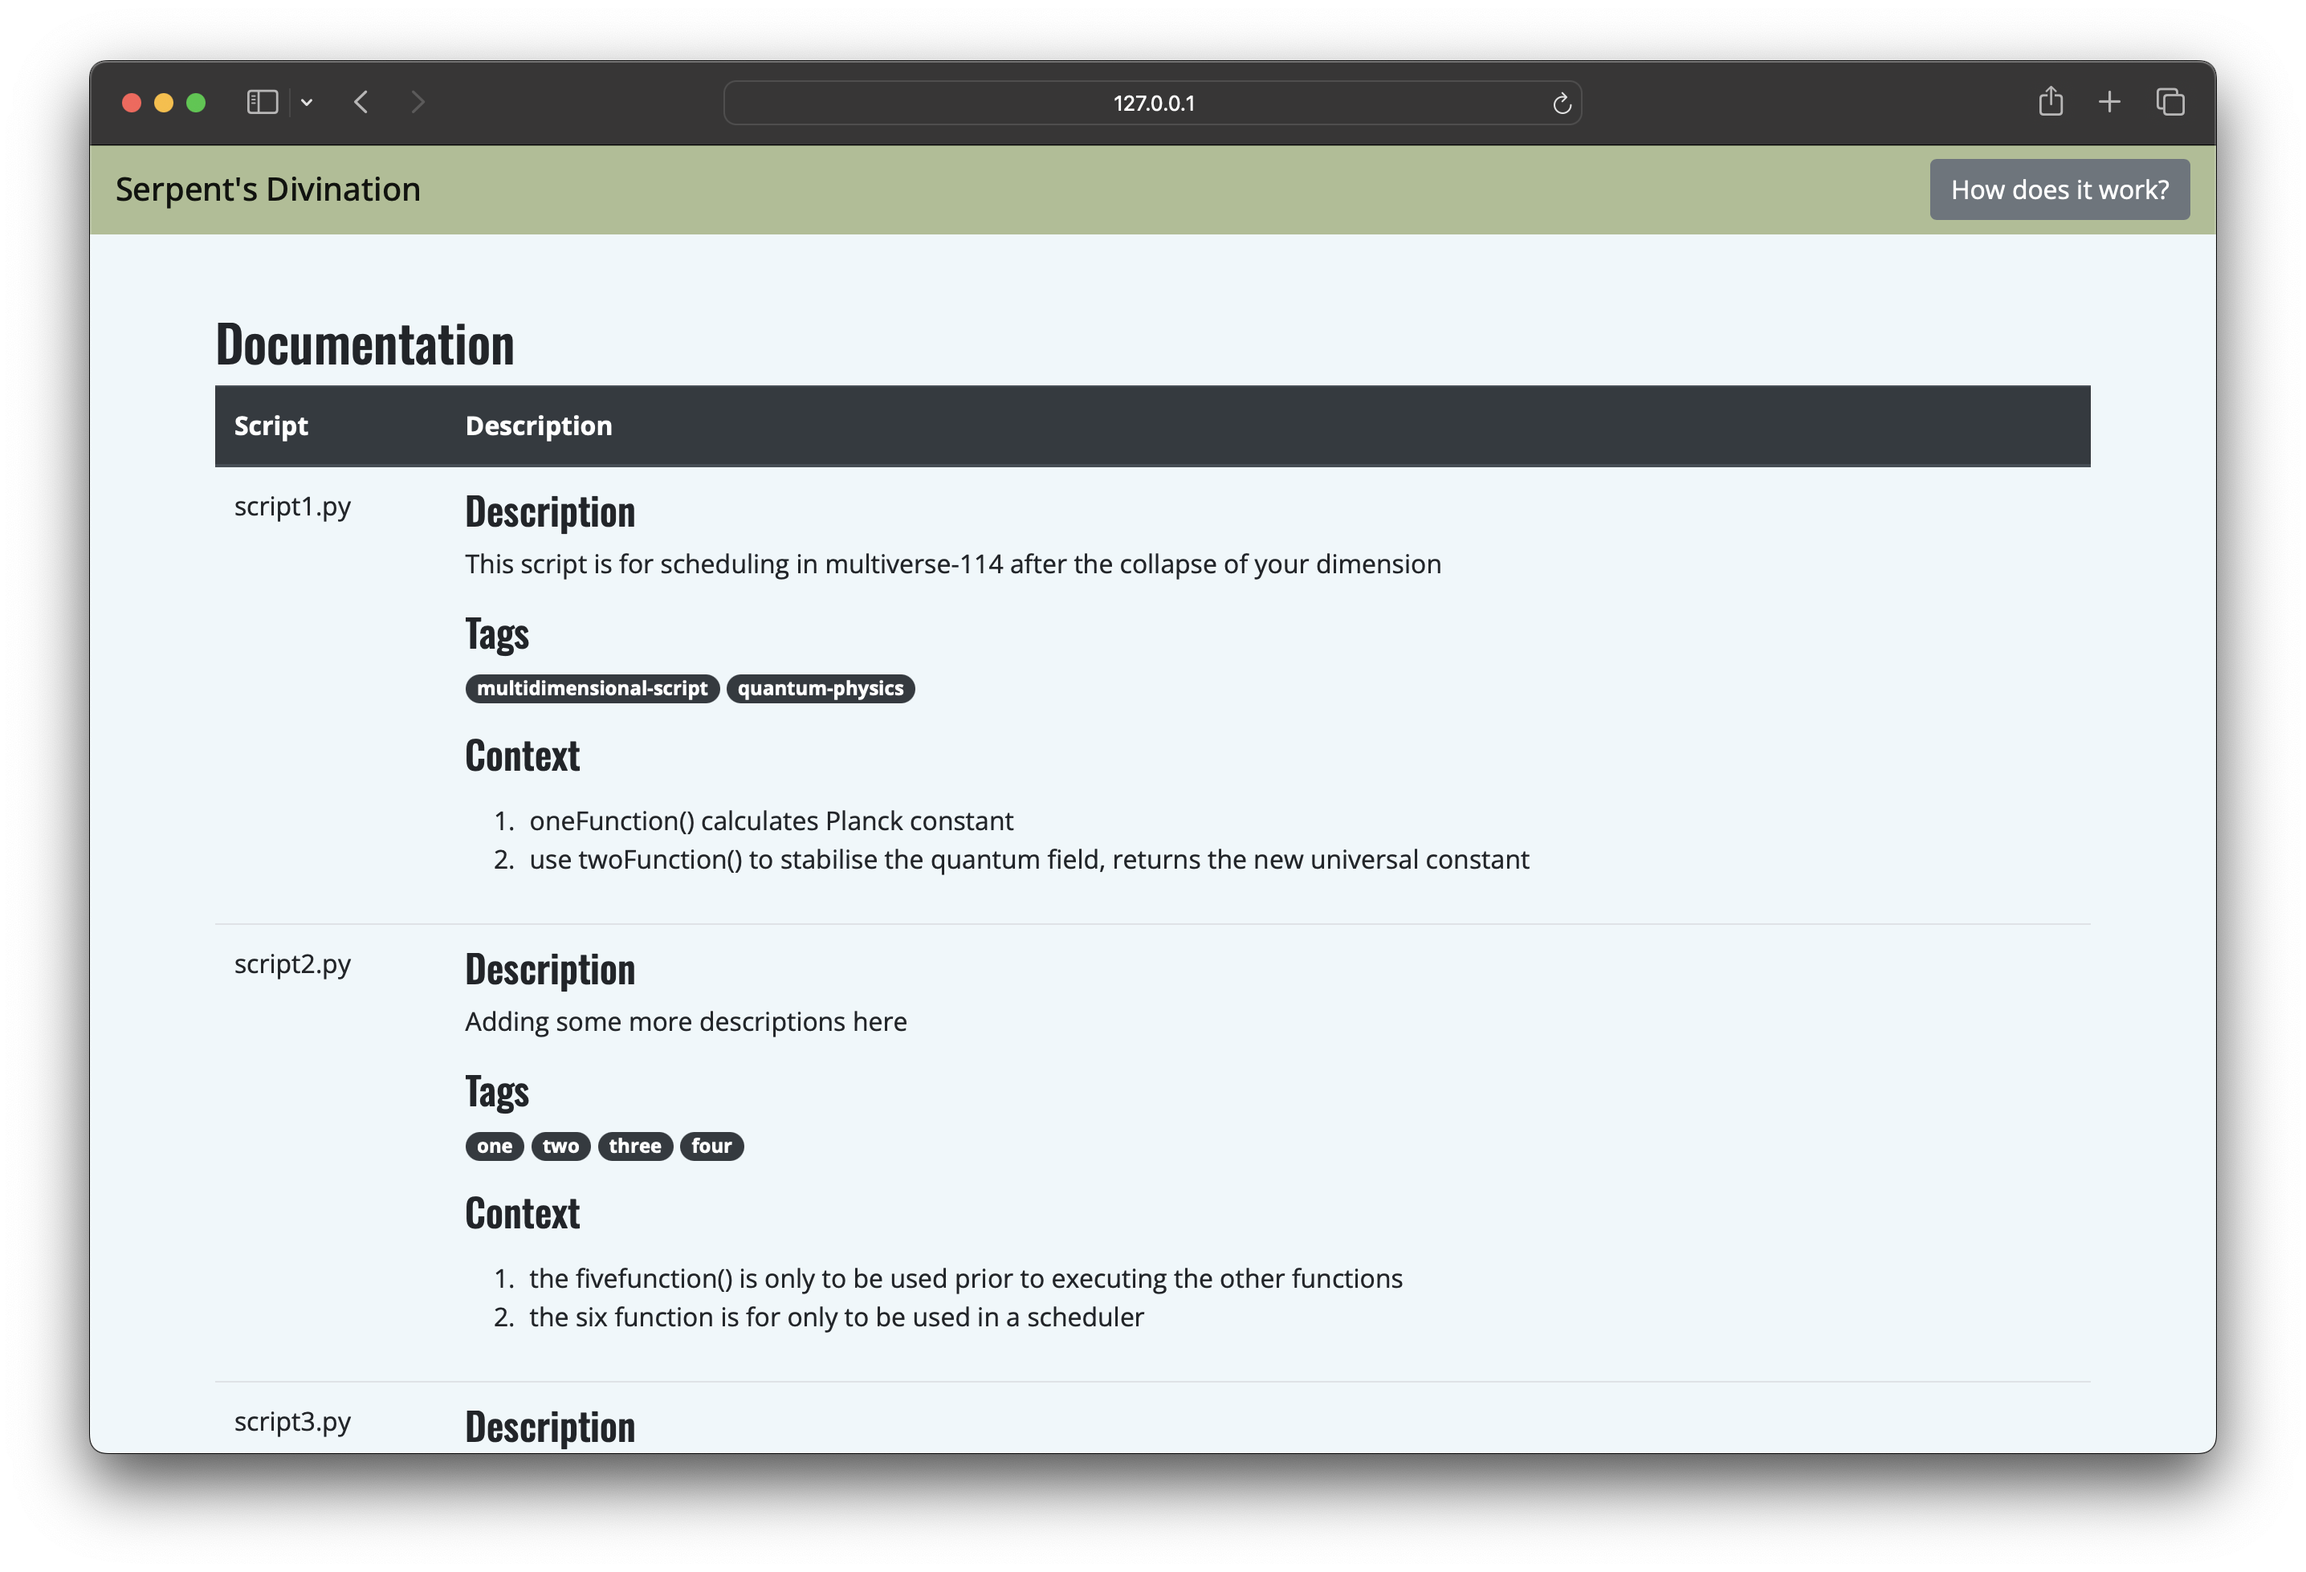
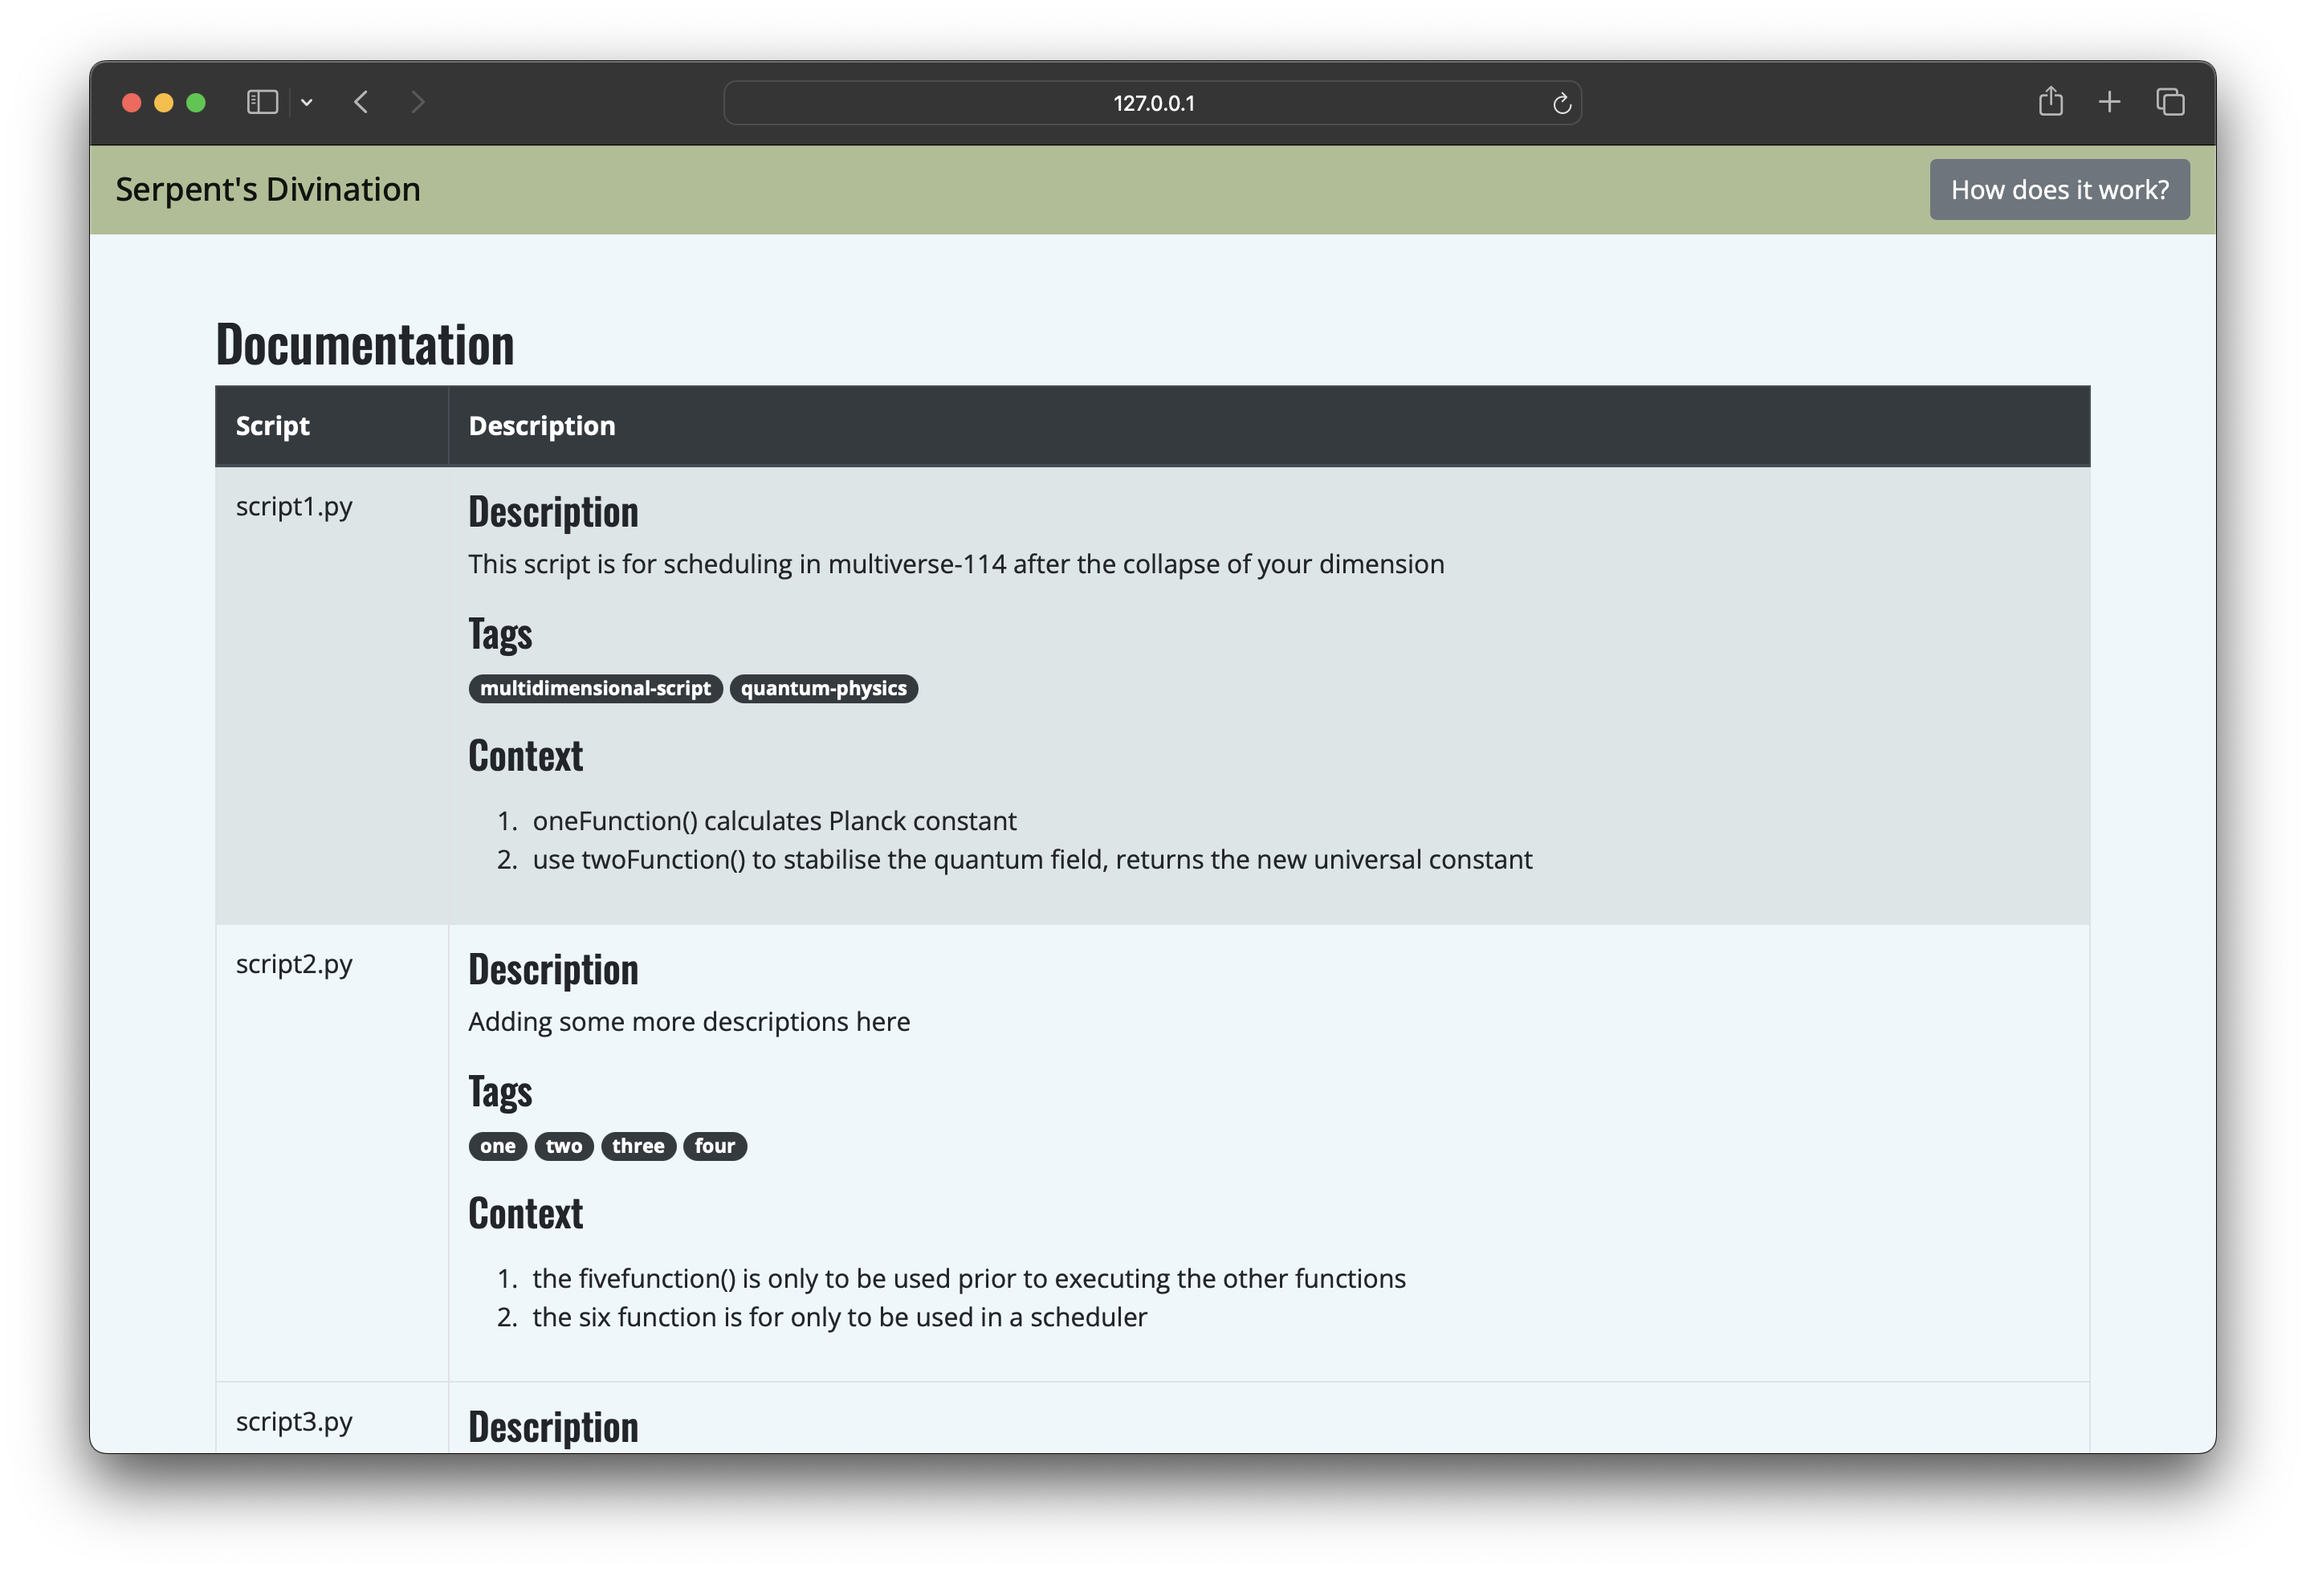
add table border and update screengrabs

diff --git a/templates/script_viewer.html b/templates/script_viewer.html
@@ -1,4 +1,4 @@
-<table class="table table-hover">
+<table class="table table-hover table-bordered">
     <thead class="thead-dark">
       <tr>
         <th scope="col">Script</th>
